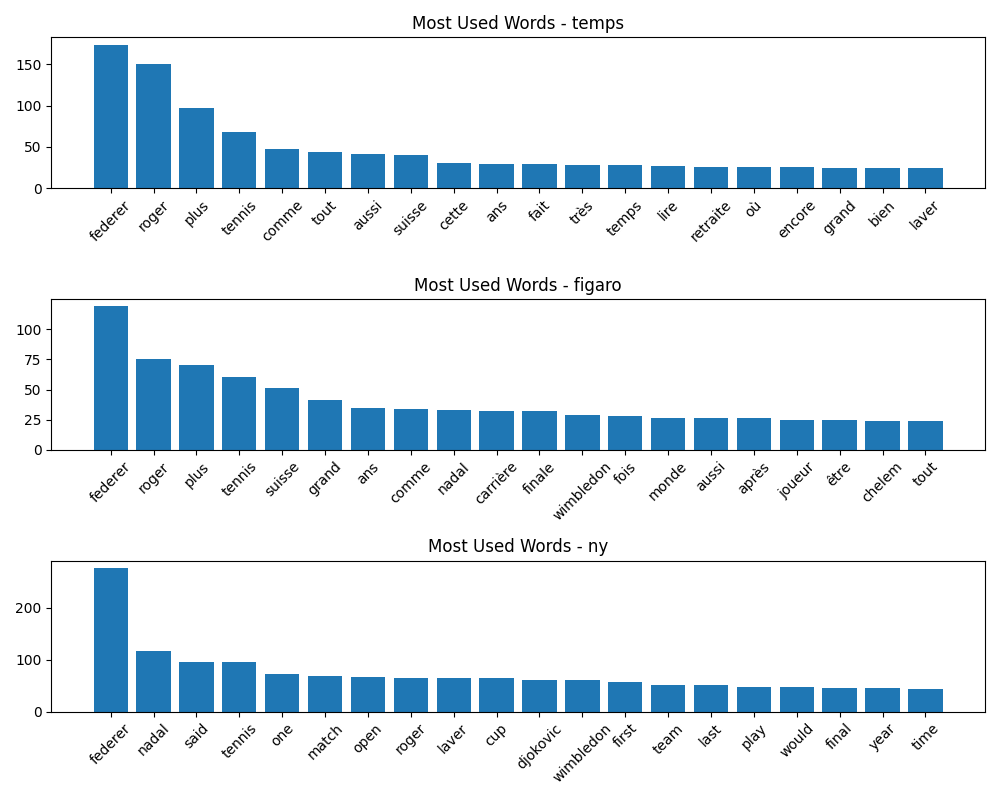
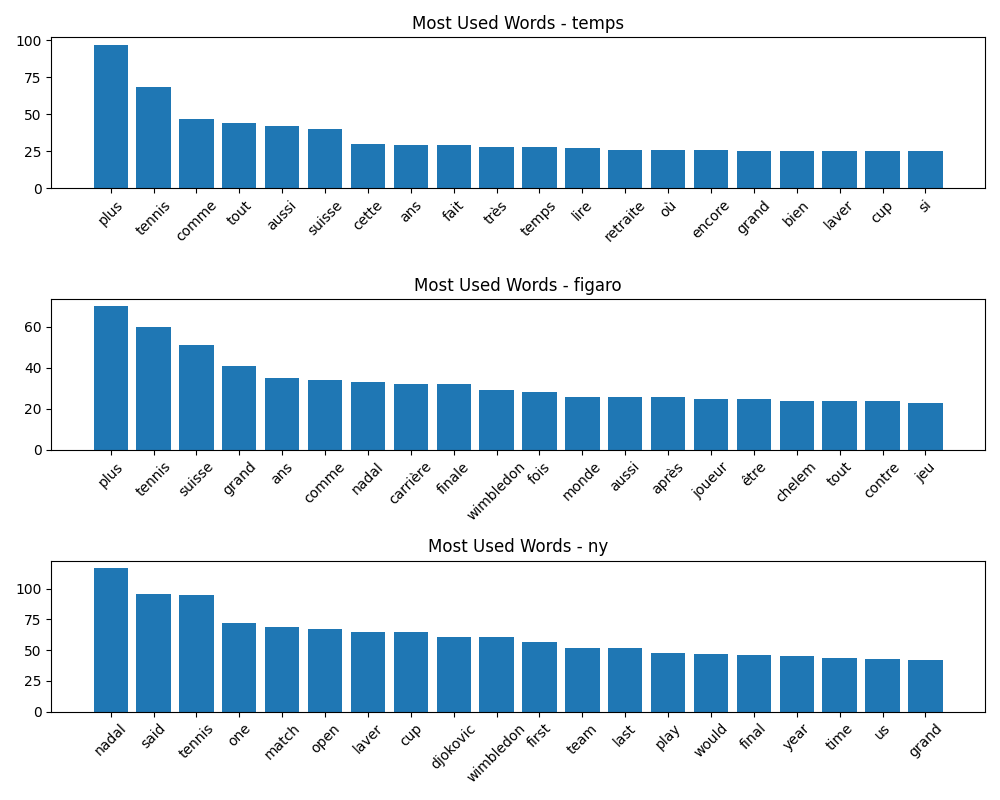
remove rf in analyze

diff --git a/size_articles.py b/size_articles.py
@@ -1,0 +1,65 @@
+import json
+import numpy as np
+
+
+figaro_path = "./data/figaro/"
+nb_articles_figaro = 16
+
+ny_path = "./data/ny/"
+nb_articles_ny = 15
+
+temps_path = "./data/temps/"
+nb_articles_temps = 14
+
+
+paths = [figaro_path, ny_path, temps_path]
+nb_articles = [nb_articles_figaro, nb_articles_ny, nb_articles_temps]
+
+
+def size_articles(paths, nb_articles):
+    """
+    :param path: path to the articles
+    :param nb_articles: number of articles
+    :return: a list of the size of the articles
+    """
+    size_per_country = {}
+    for path, nb in zip(paths, nb_articles):
+        for i in range(1, nb + 1):
+            with open(path + str(i) + ".json", encoding="utf-8") as json_file:
+                data = json.load(json_file)
+                article = data["article"]
+                # get number of char without spaces
+                size = len(article) - article.count(" ")
+                size_per_country[path + str(i) + ".json"] = size
+    return size_per_country
+
+
+# use numpy to compute the tertiles of the size of the articles
+# by keeping the keys of the dictionary
+def tertiles(size_per_country):
+    """
+    :param size_per_country: a dictionary with the size of the articles
+    :return: a dictionary with the tertiles of the size of the articles
+    """
+
+    tertiles = np.percentile(list(size_per_country.values()), [33, 66])
+    _max = max(size_per_country.values())
+    _min = min(size_per_country.values())
+    tertiles_dict = {}
+    for key, value in size_per_country.items():
+        if value < tertiles[0]:
+            tertiles_dict[key] = 1
+        elif value < tertiles[1]:
+            tertiles_dict[key] = 2
+        else:
+            tertiles_dict[key] = 3
+    return tertiles_dict, tertiles, _min, _max
+
+
+tertiles_dict, tertiles, _min, _max = tertiles(size_articles(paths, nb_articles))
+
+print("min: ", _min)
+print("max: ", _max)
+print("tertiles: ", tertiles)
+for elemen in tertiles_dict:
+    print(elemen, tertiles_dict[elemen])

diff --git a/analyze.py b/analyze.py
@@ -33,7 +33,10 @@ for media in medias:
                 [
                     word
                     for word in title.split()
-                    if word not in french_stopwords and word not in english_stopwords
+                    if word not in french_stopwords
+                    and word not in english_stopwords
+                    and word != "federer"
+                    and word != "roger"
                 ]
             )
             article = article.replace("’", " ").replace("'", " ")
@@ -44,7 +47,10 @@ for media in medias:
                 [
                     word
                     for word in article.split()
-                    if word not in french_stopwords and word not in english_stopwords
+                    if word not in french_stopwords
+                    and word not in english_stopwords
+                    and word != "federer"
+                    and word != "roger"
                 ]
             )
             titles.append(title)
